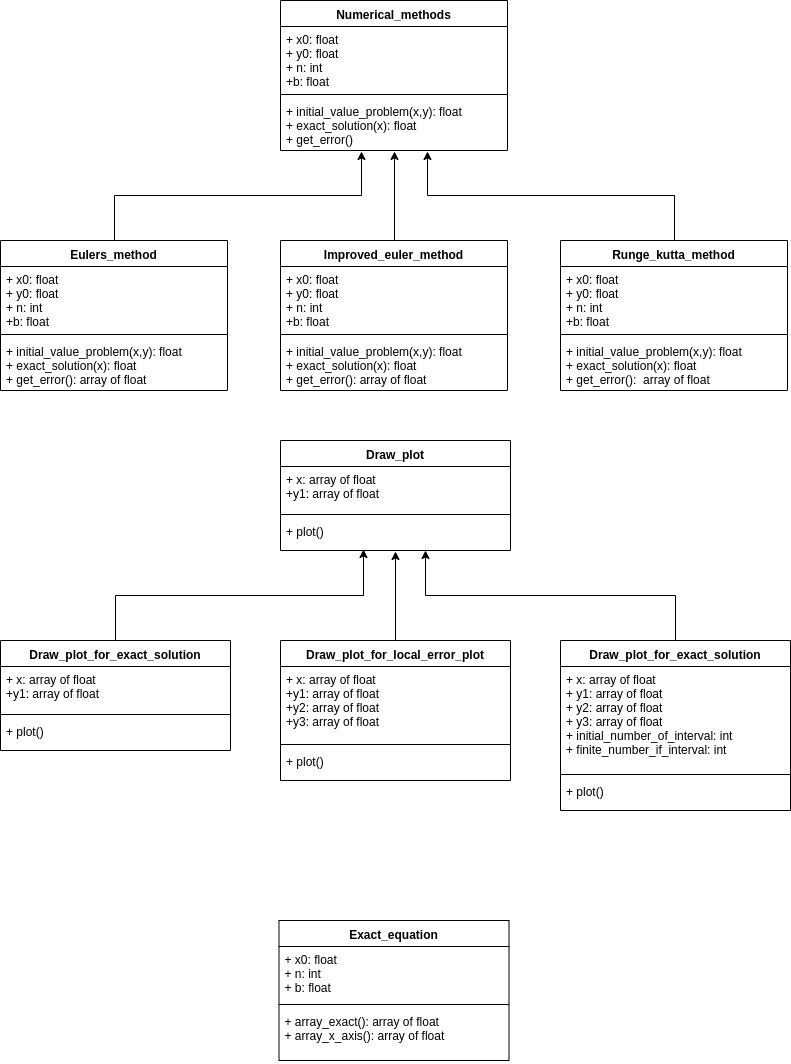
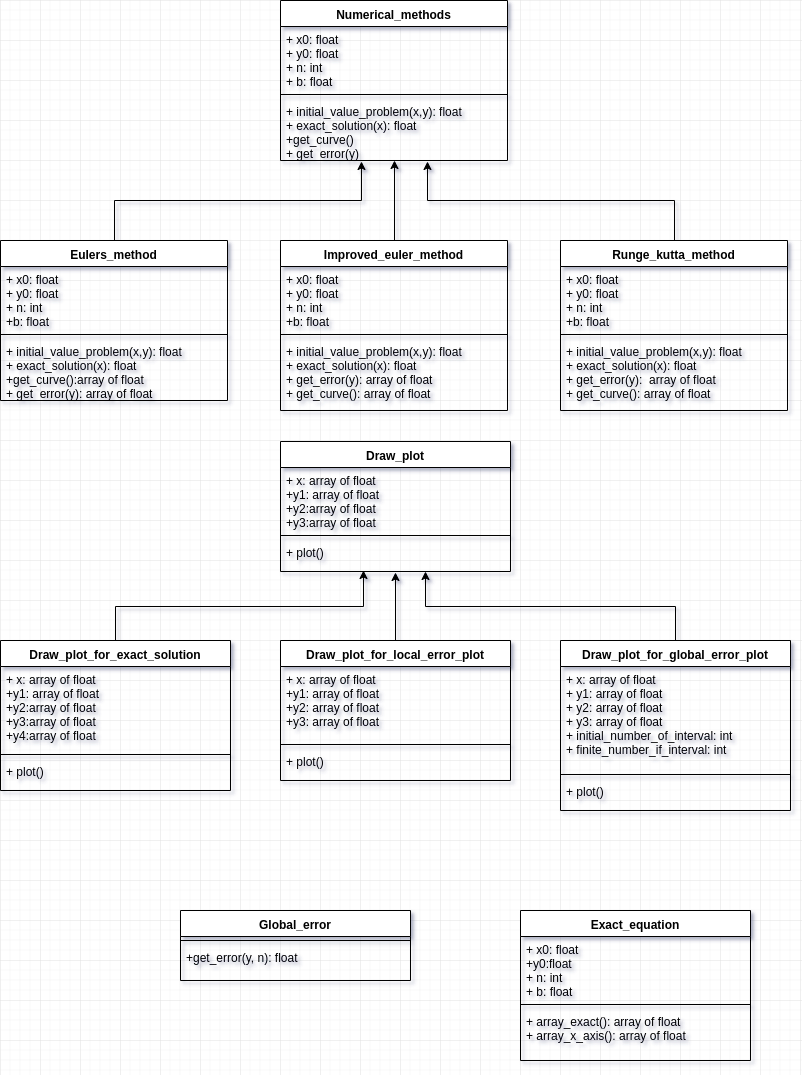
update

diff --git a/plots-update.py b/plots-update.py
@@ -5,29 +5,31 @@ import sys
 
 
 class Exact_equation:
-    def __init__(self, x0, n, b):
+    def __init__(self, x0, y0, n, b):
         self.x0 = x0
+        self.y0 = y0
         self.n = n
         self.b = b
 
-    def array_exact(self):
+    def array_exact(self):  # return array y for equation of exact solution
 
         x = [0]*(self.n + 1)
         exact = [0]*(self.n + 1)
         x[0] = self.x0
         exact[0] = math.exp(x[0]) + 1/(1-x[0])
+        const = self.x0+(1/(self.y0-math.exp(self.x0)))
 
         for i in range(1, self.n+1):
             x[i] = self.x0 + i * \
                 (self.b-self.x0)/self.n
-            if x[i] == 1:
+            if x[i] == const:
                 exact[i] = 0
             else:
-                exact[i] = math.exp(x[i]) + 1/(1-x[i])
+                exact[i] = math.exp(x[i]) + 1/(const-x[i])
 
         return exact
 
-    def array_x_axis(self):
+    def array_x_axis(self):  # array of x for draw plot
 
         x = [0]*(self.n + 1)
         x[0] = self.x0
@@ -36,6 +38,15 @@ class Exact_equation:
                 (self.b-self.x0)/self.n
 
         return x
+
+
+class Global_error:
+
+    def get_error(self, y, n):
+        alfa = 0
+        for i in range(0, n + 1):
+            alfa = alfa + y[i]
+        return alfa
 
 
 class Numerical_methods:
@@ -52,29 +63,30 @@ class Numerical_methods:
         return yy
 
     # exact solution y= e^x + 1/(c-x)
+    # return y for current x in exact equation
     def exact_solution(self, x):  # y = ...
-        const = 1
-        if x == 1:
+        const = self.x0+(1/(self.y0-math.exp(self.x0)))
+        if x == const:
             return 0
         return math.exp(x) + 1/(const-x)
 
-    def get_error(self):
+    def get_curve(self):
+        pass
+
+    def get_error(self, y):
         pass
 
 
 class Eulers_method(Numerical_methods):
 
-    def get_error(self):
+    def get_curve(self):
         x = [0]*(self.n+1)
         y = [0]*(self.n+1)
         h = (self.b-self.x0)/self.n
 
         y[0] = self.y0
         x[0] = self.x0
-        error = [0]*(self.n+1)
-        error[0] = 0
 
-        # заполняем массив х
         for i in range(1, self.n+1):
             x[i] = self.x0 + i*h
 
@@ -83,16 +95,30 @@ class Eulers_method(Numerical_methods):
         for i in range(2, self.n+1):
             y[i] = y[i-1] + h*super().initial_value_problem(x[i-1], y[i-1])
 
+        return y
+
+    def get_error(self, y):
+        x = [0]*(self.n+1)
+        x[0] = self.x0
+        h = (self.b-self.x0)/self.n
+
+        error = [0]*(self.n+1)
+        error[0] = 0
+
+        for i in range(1, self.n+1):
+            x[i] = self.x0 + i*h
+
         # error at the i th step.
         for i in range(1, self.n+1):
-            error[i] = super().exact_solution(x[i]) - y[i]
+            error[i] = math.fabs(super().exact_solution(
+                x[i]) - y[i])  # math.fabs(X)
 
         return error
 
 
 class Improved_euler_method(Numerical_methods):
 
-    def get_error(self):
+    def get_curve(self):
         x = [0]*(self.n+1)
         y = [0]*(self.n+1)
         h = (self.b-self.x0)/self.n
@@ -100,30 +126,40 @@ class Improved_euler_method(Numerical_methods):
         y[0] = self.y0
         x[0] = self.x0
 
-        error = [0]*(self.n+1)
-        error[0] = 0
-
-        # заполняем массив х
         for i in range(1, self.n+1):
             x[i] = self.x0 + i*h
 
         # the equation of the tangent line
         y[1] = self.y0 + (h/2)*(super().initial_value_problem(self.x0, self.y0) +
-                           super().initial_value_problem(x[1], self.y0+h*super().initial_value_problem(self.x0, self.y0)))
+                                super().initial_value_problem(x[1], self.y0+h*super().initial_value_problem(self.x0, self.y0)))
         for i in range(2, self.n+1):
             y[i] = y[i-1] + (h/2)*(super().initial_value_problem(x[i-1], y[i-1]) +
                                    super().initial_value_problem(x[i], y[i-1]+h*super().initial_value_problem(x[i-1], y[i-1])))
 
+        return y
+
+    def get_error(self, y):
+        x = [0]*(self.n+1)
+        h = (self.b-self.x0)/self.n
+
+        x[0] = self.x0
+
+        error = [0]*(self.n+1)
+        error[0] = 0
+
+        for i in range(1, self.n+1):
+            x[i] = self.x0 + i*h
+
         # error at the i th step.
         for i in range(1, self.n+1):
-            error[i] = super().exact_solution(x[i]) - y[i]
+            error[i] = math.fabs(super().exact_solution(x[i]) - y[i])
 
         return error
 
 
 class Runge_kutta_method(Numerical_methods):
 
-    def get_error(self):
+    def get_curve(self):
         x = [0]*(self.n+1)
         y = [0]*(self.n+1)
         h = (self.b-self.x0)/self.n
@@ -131,10 +167,6 @@ class Runge_kutta_method(Numerical_methods):
         y[0] = self.y0
         x[0] = self.x0
 
-        error = [0]*(self.n+1)
-        error[0] = 0
-
-        # заполняем массив х
         for i in range(1, self.n+1):
             x[i] = self.x0 + i*h
 
@@ -146,18 +178,34 @@ class Runge_kutta_method(Numerical_methods):
             k_4 = super().initial_value_problem(x[i-1] + h, y[i-1]+h*k_3)
 
             y[i] = y[i-1] + (h/6)*(k_1 + 2*k_2 + 2*k_3 + k_4)
+        return y
+
+    def get_error(self, y):
+        x = [0]*(self.n+1)
+        h = (self.b-self.x0)/self.n
+
+        x[0] = self.x0
+
+        error = [0]*(self.n+1)
+        error[0] = 0
+
+        for i in range(1, self.n+1):
+            x[i] = self.x0 + i*h
+
         # error at the i th step.
         for i in range(1, self.n+1):
-            error[i] = super().exact_solution(x[i]) - y[i]
+            error[i] = math.fabs(super().exact_solution(x[i]) - y[i])
 
         return error
 
 
 class Draw_plot:
 
-    def __init__(self, x, y1):
+    def __init__(self, x, y1, y2, y3):
         self.x = x
         self.y1 = y1
+        self.y2 = y2
+        self.y3 = y3
 
     def plot(self):
         pass
@@ -165,10 +213,20 @@ class Draw_plot:
 
 class Draw_plot_for_exact_solution(Draw_plot):
 
+    def __init__(self, x, y1, y2, y3, y4):
+        super().__init__(x, y1, y2, y3)
+        self.y4 = y4
+
     def plot(self):
 
         plt.plot(self.x, self.y1, marker='o',  markerfacecolor='darkblue',
-                 markersize=5, color='skyblue', linewidth=2, label="exact solution")
+                 markersize=2, color='darkblue', linewidth=2, label="exact solution")
+        plt.plot(self.x, self.y2, marker='o',  markerfacecolor='blue',
+                 markersize=2, color='skyblue', linewidth=2, label="euler's method")
+        plt.plot(self.x, self.y3, marker='o',  markerfacecolor='green',
+                 markersize=2, color='darkgreen', linewidth=2, label="improved euler method")
+        plt.plot(self.x, self.y4, marker='o',  markerfacecolor='red',
+                 markersize=2, color='orange', linewidth=2, label="runge-kutta method")
         plt.title("Exact solution", loc='left',
                   fontsize=12, fontweight=0, color='orange')
 
@@ -181,10 +239,6 @@ class Draw_plot_for_exact_solution(Draw_plot):
 
 
 class Draw_plot_for_local_error_plot(Draw_plot):
-    def __init__(self, x, y1, y2, y3):
-        super().__init__(x, y1)
-        self.y2 = y2
-        self.y3 = y3
 
     def plot(self):
 
@@ -206,27 +260,26 @@ class Draw_plot_for_local_error_plot(Draw_plot):
         plt.clf()
 
 
-class Draw_plot_for_maximal_local_error_plot(Draw_plot):
+class Draw_plot_for_global_error_plot(Draw_plot):
 
     def __init__(self, x, y1, y2, y3, initial_number_of_interval, finite_number_if_interval):
-        super().__init__(x, y1)
-        self.y2 = y2
-        self.y3 = y3
+        super().__init__(x, y1, y2, y3)
         self.initial_number_of_interval = initial_number_of_interval
         self.finite_number_if_interval = finite_number_if_interval
 
     def plot(self):
-        # made plot for local interval of errors
-
-        plt.plot(self.x[self.initial_number_of_interval:self.finite_number_if_interval], self.y1[self.initial_number_of_interval:self.finite_number_if_interval],
-                 marker='o',  markerfacecolor='blue', markersize=5, color='skyblue', linewidth=2, label="euler's method")
-        plt.plot(self.x[self.initial_number_of_interval:self.finite_number_if_interval], self.y2[self.initial_number_of_interval:self.finite_number_if_interval],
-                 marker='o',  markerfacecolor='green', markersize=5, color='darkgreen', linewidth=2, label="improved euler method")
-        plt.plot(self.x[self.initial_number_of_interval:self.finite_number_if_interval], self.y3[self.initial_number_of_interval:self.finite_number_if_interval],
-                 marker='o',  markerfacecolor='red', markersize=5, color='orange', linewidth=2, label="runge-kutta method")
-        plt.title("Maximal local error plot", loc='left',
+            # made plot for local interval of errors
+        plt.plot(self.x, self.y1, marker='o',  markerfacecolor='blue',
+                 markersize=5, color='skyblue', linewidth=2, label="euler's method")
+        plt.plot(self.x, self.y2, marker='o',  markerfacecolor='green', markersize=5,
+                 color='darkgreen', linewidth=2, label="improved euler method")
+        plt.plot(self.x, self.y3, marker='o',  markerfacecolor='red',
+                 markersize=5, color='orange', linewidth=2, label="runge-kutta method")
+        plt.title("Global error plot", loc='left',
                   fontsize=12, fontweight=0, color='red')
         # Add legend
+        plt.ylabel('error')
+        plt.xlabel('N')
         plt.legend(loc=4, ncol=1)
         plt.savefig('interval.png')
 
@@ -244,21 +297,38 @@ if __name__ == "__main__":
     runge_kutta_method = Runge_kutta_method(float(sys.argv[1]), float(
         sys.argv[2]), int(sys.argv[4]), float(sys.argv[3]))
 
-
     exact_equation = Exact_equation(
-        float(sys.argv[1]), int(sys.argv[4]), float(sys.argv[3]))
+        float(sys.argv[1]), float(sys.argv[2]), int(sys.argv[4]), float(sys.argv[3]))
 
+    global_error = Global_error()
 
+    em = [0]*(int(sys.argv[6]) - int(sys.argv[5])+1)
+    iem = [0]*(int(sys.argv[6]) - int(sys.argv[5])+1)
+    rkm = [0]*(int(sys.argv[6]) - int(sys.argv[5])+1)
+    xn = [0]*(int(sys.argv[6]) - int(sys.argv[5])+1)
+    for i in range(0, int(sys.argv[6]) - int(sys.argv[5])+1):
+        xn[i] = i
+        m1 = Eulers_method(float(sys.argv[1]), float(
+            sys.argv[2]), int(sys.argv[5])+i, float(sys.argv[3]))
+        m2 = Improved_euler_method(float(sys.argv[1]), float(
+            sys.argv[2]), int(sys.argv[5])+i, float(sys.argv[3]))
+        m3 = Runge_kutta_method(float(sys.argv[1]), float(
+            sys.argv[2]), int(sys.argv[5])+i, float(sys.argv[3]))
+        em[i] = global_error.get_error(m1.get_error(
+            euler_method.get_curve()), int(sys.argv[5])+i)
+        iem[i] = global_error.get_error(m2.get_error(
+            improved_euler_method.get_curve()), int(sys.argv[5])+i)
+        rkm[i] = global_error.get_error(m3.get_error(
+            runge_kutta_method.get_curve()), int(sys.argv[5])+i)
     plot_exact_solution = Draw_plot_for_exact_solution(
-        exact_equation.array_x_axis(), exact_equation.array_exact())
+        exact_equation.array_x_axis(), exact_equation.array_exact(),  euler_method.get_curve(), improved_euler_method.get_curve(), runge_kutta_method.get_curve())
 
-    plot_local_error = Draw_plot_for_local_error_plot(exact_equation.array_x_axis(), euler_method.get_error(
-    ), improved_euler_method.get_error(), runge_kutta_method.get_error())
+    plot_local_error = Draw_plot_for_local_error_plot(exact_equation.array_x_axis(), euler_method.get_error(euler_method.get_curve(
+    )), improved_euler_method.get_error(improved_euler_method.get_curve()), runge_kutta_method.get_error(runge_kutta_method.get_curve()))
 
-    plot_maximal_local_error = Draw_plot_for_maximal_local_error_plot(exact_equation.array_x_axis(), euler_method.get_error(
-    ), improved_euler_method.get_error(), runge_kutta_method.get_error(), int(sys.argv[5]), int(sys.argv[6]))
-
+    draw_plot_for_global_error_plot = Draw_plot_for_global_error_plot(
+        xn, em, iem, rkm, int(sys.argv[5]), int(sys.argv[6]))
 
     plot_exact_solution.plot()
     plot_local_error.plot()
-    plot_maximal_local_error.plot()
+    draw_plot_for_global_error_plot.plot()

diff --git a/README.md b/README.md
@@ -3,13 +3,15 @@
 
 ## Description
 
+####link to report 
+####https://docs.google.com/document/d/11vYCIDK6QEcCMEkv-klHRva_S5AKLd5Vtb0pX16L1rI/edit?usp=sharing
+
 #### Content of the project:
 1. `plots-update.py` contain code with OOP-design standards, in particular, organized  within SOLID principles
 2. `plots.py` contain code with pure functional programming
 3. `window.py` contain implementation of GUI with real-time changing plots
 4. `DE_F19_Computational_Practicum.pdf` contain descriprion of tha task
 5. `UML_diagram.png` contain UML-diagram of classes
-6. `report.pdf` contain report of computational practicum
 
 #### Code description:
 - __Code contain__ :
@@ -17,7 +19,7 @@
 - - Exact equation
 - - visualization 
 - __Visualization contain__:
-- - 3 graphs plots: local error plot, exact solution, maximal local error plot 
+- - 3 graphs plots: local error plot, exact solution, plot for global error
 - - fields for changing parameters: x0, y0, X, N, and interval for the error
 
 
